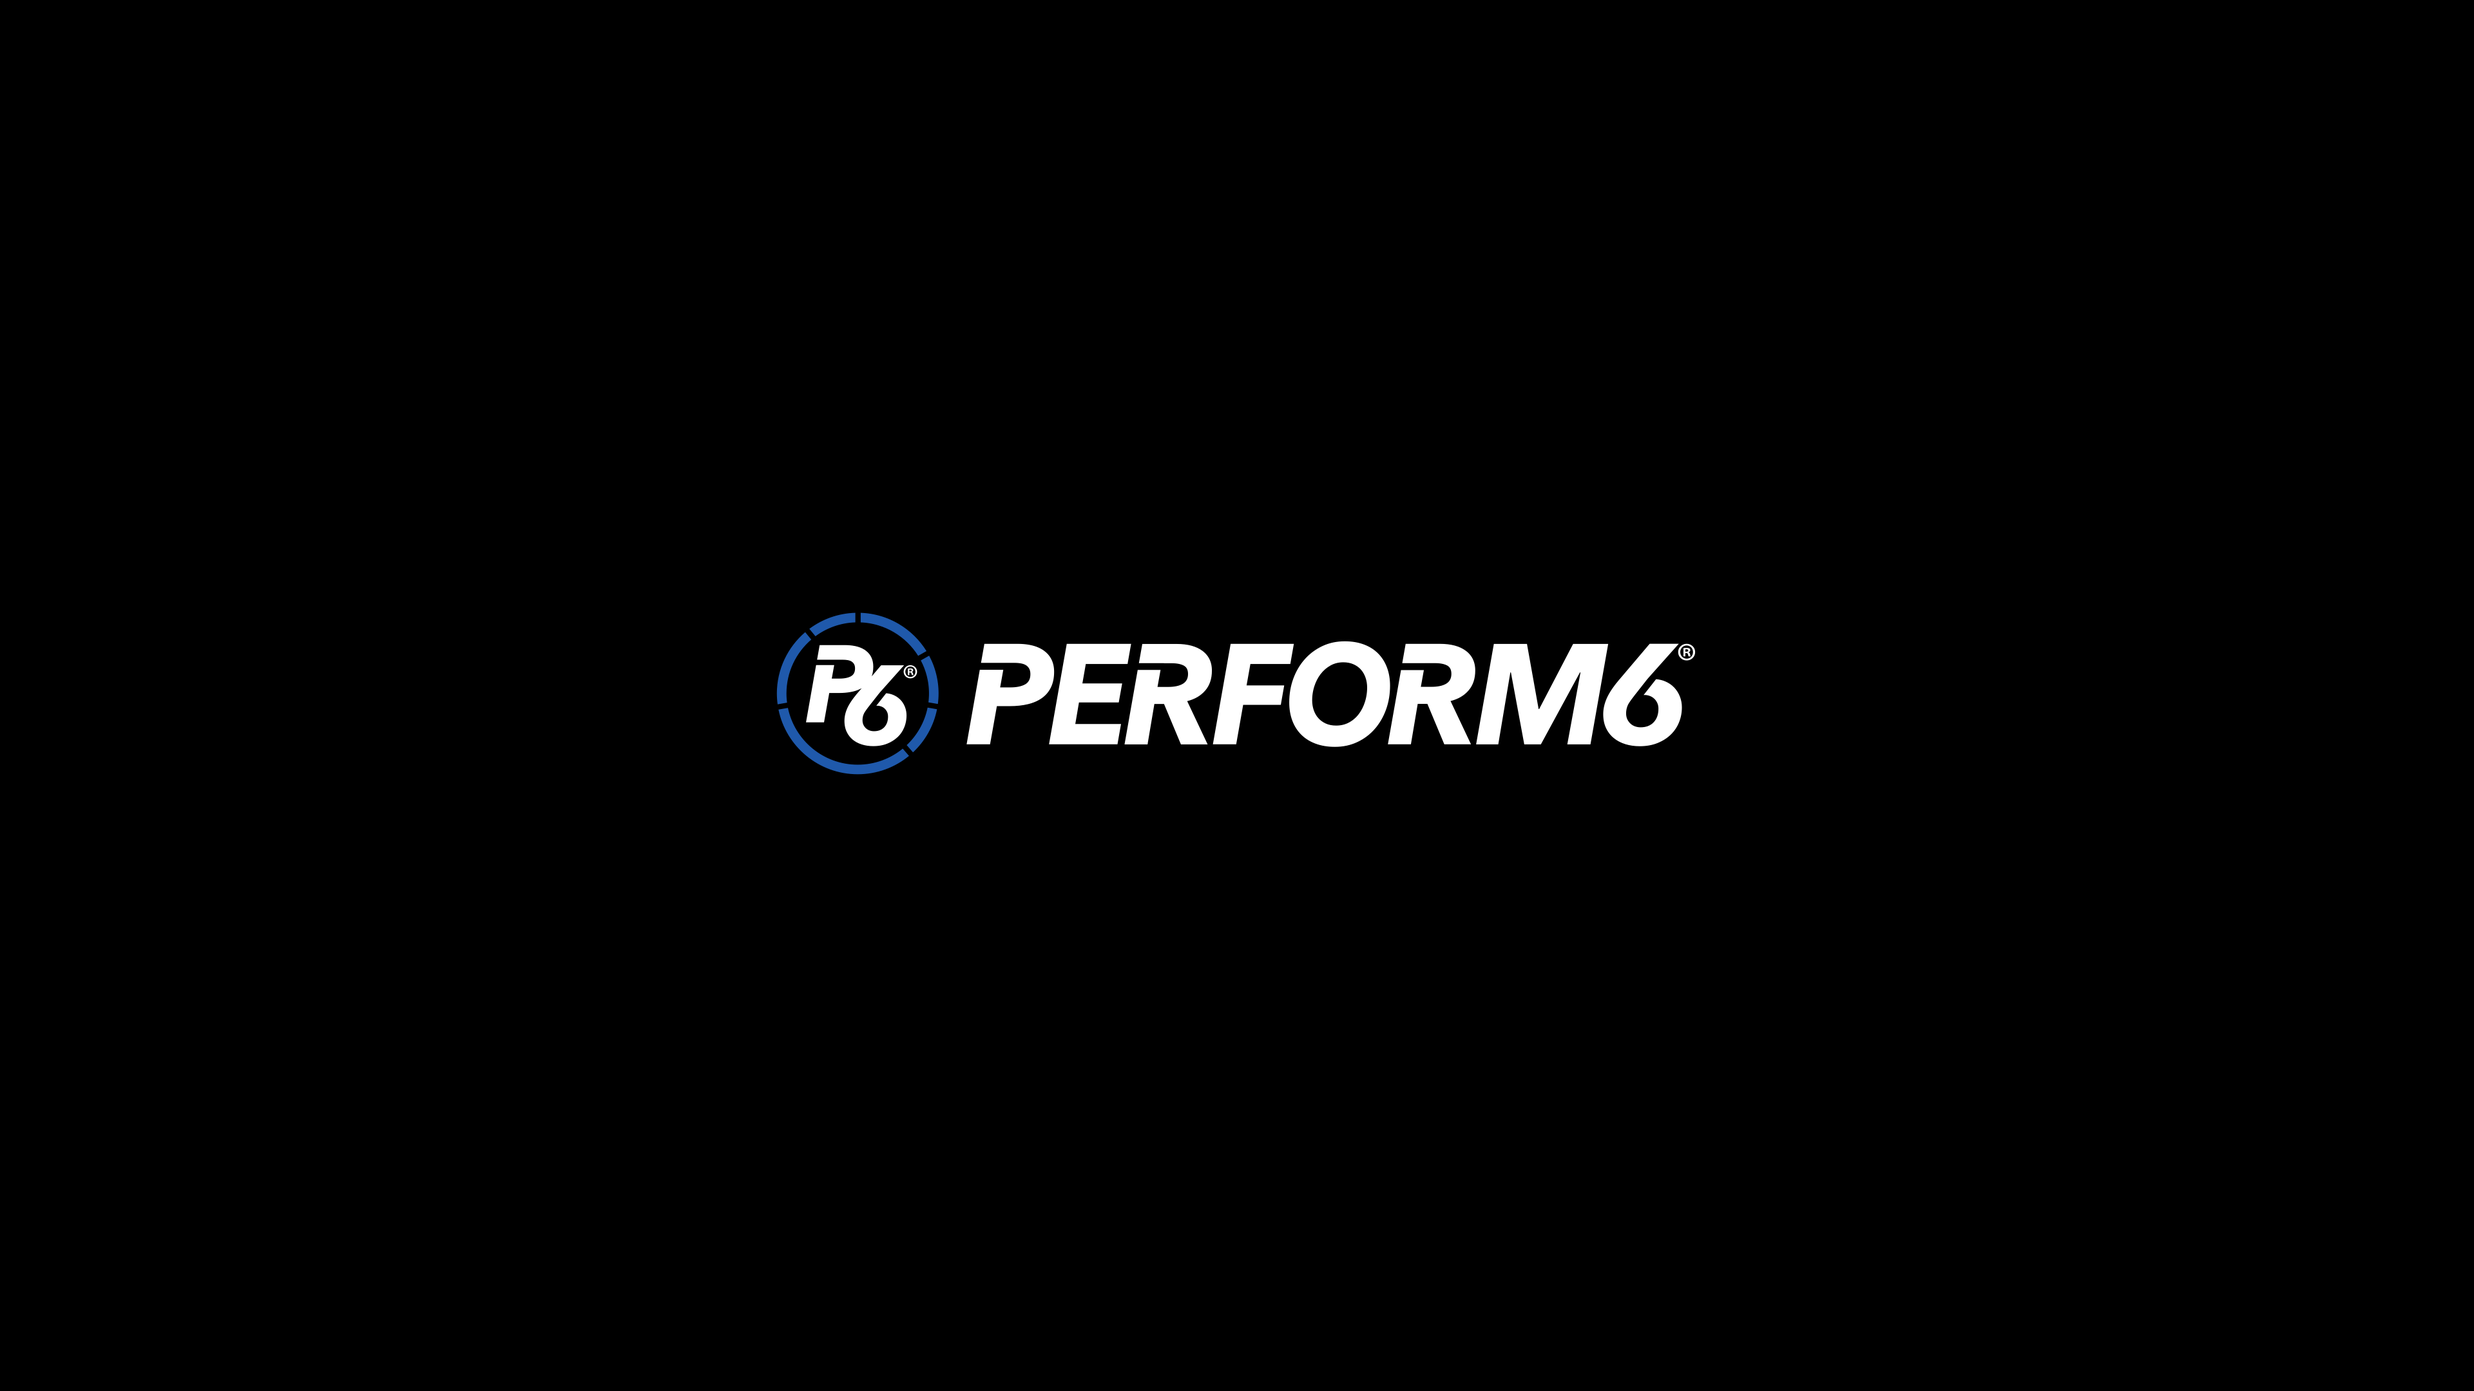
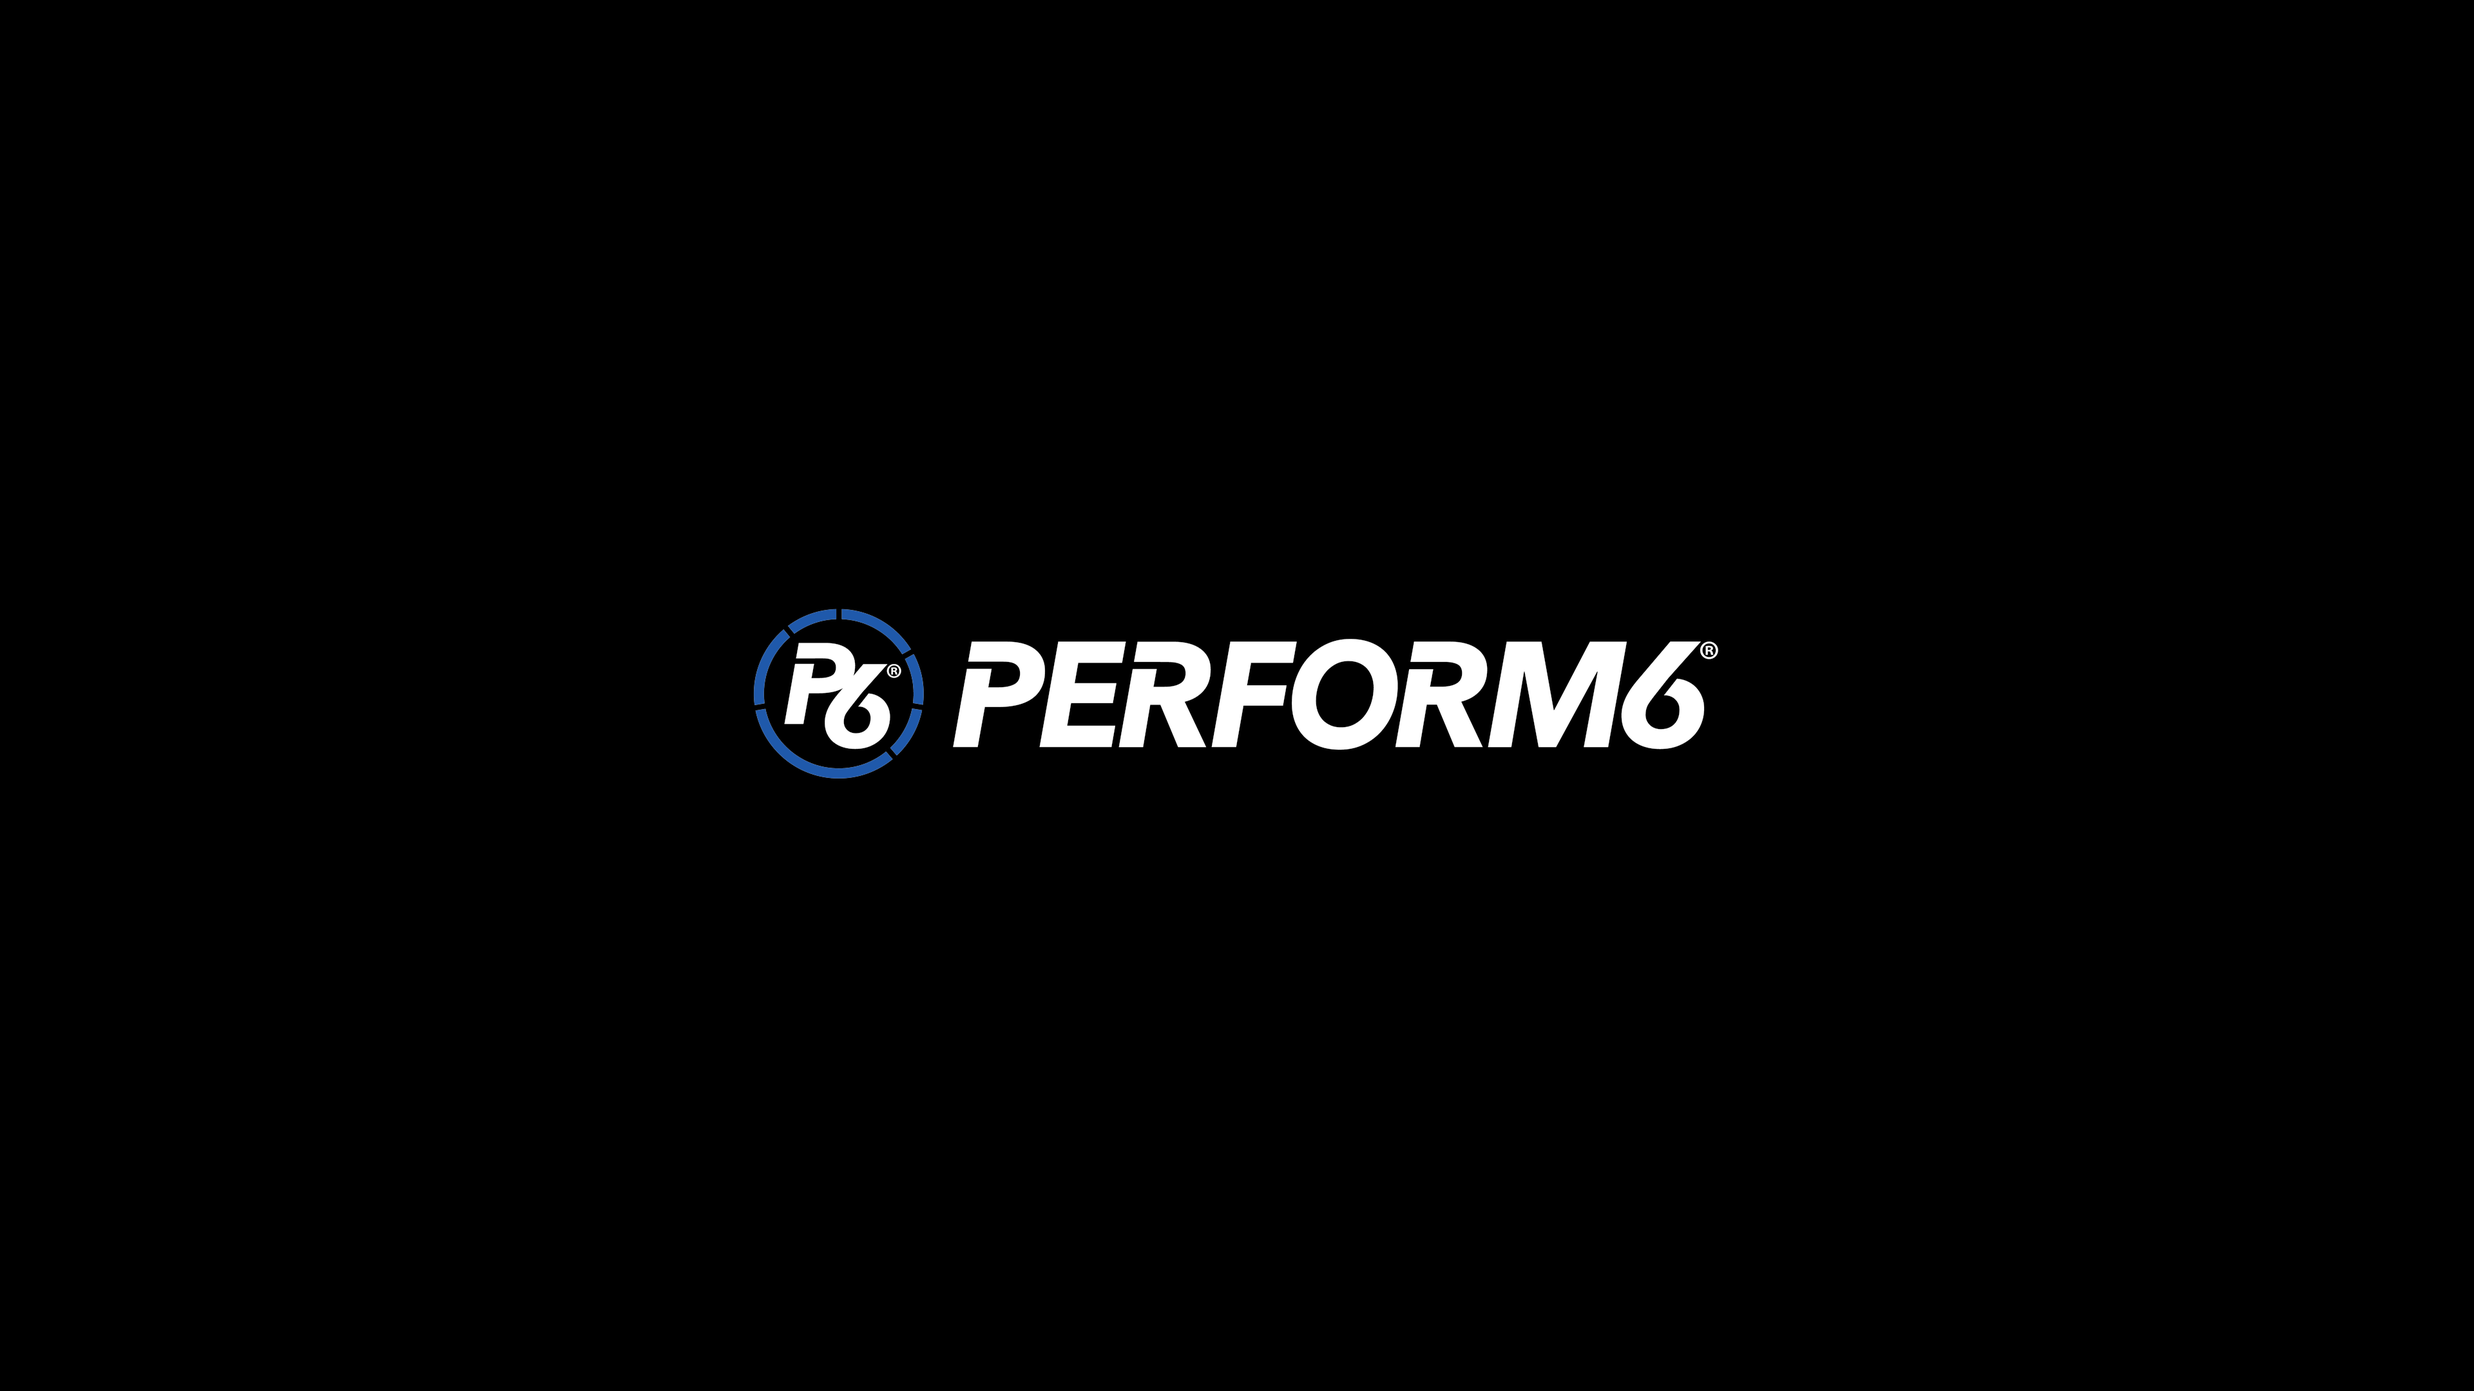
Final Feedback Changes

Changed region(s): [[0.2812, 0.4343, 0.4688, 0.5583], [0.5312, 0.4653, 0.6875, 0.5583]]

diff --git a/src/display-ui/DisplayVideoPlayer.tsx b/src/display-ui/DisplayVideoPlayer.tsx
@@ -1,7 +1,8 @@
-import { useEffect, useRef } from 'react';
+import { useEffect, useRef, useState } from 'react';
 import { useRuntimeStore } from '../stores/runtimeStore';
 import { useVideoPlaybackTelemetry } from '../hooks/useVideoPlaybackTelemetry';
 import { safeHtmlVideoSrc } from '../services/playbackSrc';
+import { htmlPlaybackEncryption } from '../services/mediaEncryption';
 
 interface DisplayVideoPlayerProps {
   src: string | null;
@@ -24,6 +25,7 @@ export function DisplayVideoPlayer({
   mediaTitle,
 }: DisplayVideoPlayerProps) {
   const videoRef = useRef<HTMLVideoElement>(null);
+  const [, refreshEncryption] = useState(0);
   const paused = useRuntimeStore((s) => s.displayPaused);
   const muted = useRuntimeStore((s) => s.displayMuted);
   const volume = useRuntimeStore((s) => s.displayVolume);
@@ -38,6 +40,22 @@ export function DisplayVideoPlayer({
   const resolvedMediaVersionId =
     mediaVersionId ?? storeMeta?.mediaVersionId ?? null;
   const resolvedTitle = mediaTitle ?? storeMeta?.title ?? label ?? null;
+  const encryption = htmlPlaybackEncryption(resolvedMediaVersionId);
+
+  useEffect(() => {
+    const refreshForMedia = (event: Event) => {
+      const detail = (event as CustomEvent<{ mediaVersionId?: string }>).detail;
+      if (detail?.mediaVersionId === resolvedMediaVersionId) {
+        refreshEncryption((value) => value + 1);
+      }
+    };
+    window.addEventListener('perform6-encryption-key-staged', refreshForMedia);
+    window.addEventListener('perform6-encrypted-media-ready', refreshForMedia);
+    return () => {
+      window.removeEventListener('perform6-encryption-key-staged', refreshForMedia);
+      window.removeEventListener('perform6-encrypted-media-ready', refreshForMedia);
+    };
+  }, [resolvedMediaVersionId]);
 
   useVideoPlaybackTelemetry(
     videoRef,
@@ -53,7 +71,38 @@ export function DisplayVideoPlayer({
 
   useEffect(() => {
     const video = videoRef.current;
-    if (!video) return;
+    if (!video || !playSrc) return;
+
+    // BrightSign reads these attributes only before src is assigned.
+    // The key stays in process memory and is cleared when the source changes.
+    video.removeAttribute('src');
+    if (encryption) {
+      video.setAttribute('EncryptionAlgorithm', encryption.algorithm);
+      video.setAttribute('EncryptionKey', encryption.keyAndIvHex);
+    } else {
+      video.removeAttribute('EncryptionAlgorithm');
+      video.removeAttribute('EncryptionKey');
+    }
+    video.src = playSrc;
+    const playback = useRuntimeStore.getState();
+    video.muted = playback.displayMuted;
+    video.volume = playback.displayVolume;
+    video.load();
+    if (playback.displayPaused) video.pause();
+    else void video.play().catch(() => {});
+
+    return () => {
+      video.pause();
+      video.removeAttribute('src');
+      video.removeAttribute('EncryptionAlgorithm');
+      video.removeAttribute('EncryptionKey');
+      video.load();
+    };
+  }, [encryption?.algorithm, encryption?.keyAndIvHex, playSrc]);
+
+  useEffect(() => {
+    const video = videoRef.current;
+    if (!video || !playSrc) return;
 
     if (paused) video.pause();
     else void video.play().catch(() => {});
@@ -92,16 +141,10 @@ export function DisplayVideoPlayer({
 
   return (
     <div className={`p6-display-player relative h-full min-h-[12rem] overflow-hidden bg-black ${className}`}>
-      {label && (
-        <div className="absolute left-2 top-2 z-10 rounded bg-black/60 px-2 py-1 text-xs font-semibold uppercase tracking-wide text-white">
-          {label}
-        </div>
-      )}
       {playSrc ? (
         <video
           ref={videoRef}
           key={playSrc}
-          src={playSrc}
           className="h-full w-full object-cover"
           autoPlay
           muted={muted}

diff --git a/src/pages/display/HD226Display.tsx b/src/pages/display/HD226Display.tsx
@@ -2,7 +2,8 @@ import { DisplayVideoPlayer } from '../../display-ui';
 import { findScreenForClusterMember, getCurrentVideo } from '../../services/playback';
 import { useOfflineVideoSrc } from '../../hooks/useOfflineVideoSrc';
 import { runtimeConfig, CLUSTER_MEMBERS } from '../../config/runtime';
-import { useRuntime, useSync } from '../../hooks/useRuntime';
+import { useRuntime } from '../../hooks/useRuntime';
+import perform6Logo from '../../assets/Perform6-approved-logo.svg';
 
 /**
  * Production HD226 surface — fullscreen playback for the baked
@@ -10,7 +11,6 @@ import { useRuntime, useSync } from '../../hooks/useRuntime';
  */
 export default function HD226Display() {
   const { store } = useRuntime();
-  const { syncState } = useSync();
   const manifest = store.playbackState.manifest;
   const member = runtimeConfig.clusterMember;
 
@@ -20,7 +20,6 @@ export default function HD226Display() {
   const video = getCurrentVideo(screen);
   const offlineSrc = useOfflineVideoSrc(video?.id, video?.url);
   const videoSrc = offlineSrc;
-  const label = screen?.label ?? member;
   const screenKey =
     screen?.displayTarget ??
     `SCREEN_${CLUSTER_MEMBERS.indexOf(member) + 1}`;
@@ -31,7 +30,6 @@ export default function HD226Display() {
         <div className="min-h-0 flex-1">
           <DisplayVideoPlayer
             src={videoSrc}
-            label={label}
             loop
             screenKey={screenKey}
             mediaVersionId={video?.id ?? null}
@@ -39,13 +37,13 @@ export default function HD226Display() {
           />
         </div>
       ) : (
-        <section className="flex h-full flex-col items-center justify-center gap-3 p-8 text-center">
-          <p className="text-sm font-semibold text-slate-200">{label}</p>
-          <p className="max-w-md text-xs text-slate-500">
-            {manifest
-              ? `No video for ${member} yet. Phase: ${syncState.runtimePhase}`
-              : `Waiting for sync… Phase: ${syncState.runtimePhase}`}
-          </p>
+        <section className="flex h-full w-full items-center justify-center bg-black">
+          <img
+            src={perform6Logo}
+            alt="Perform6"
+            className="h-auto w-[min(44vw,1680px)] object-contain"
+            draggable={false}
+          />
         </section>
       )}
     </main>

diff --git a/src/platform/xtOutputBridge.ts b/src/platform/xtOutputBridge.ts
@@ -40,6 +40,8 @@ let pendingSdFallback = false;
 let nativeTelemetrySignature = '';
 let nativeTelemetryStartedAt = 0;
 let nativeTelemetryScreenKey = '';
+/** Wall-clock position captured when the LED pauses, so reports do not keep advancing. */
+let nativeTelemetryPausedMs: number | null = null;
 
 function asString(value: unknown): string {
   return typeof value === 'string' ? value : '';
@@ -157,11 +159,23 @@ function reportNativeHdmiTelemetry(status: ReturnType<typeof readXtPlaybackStatu
   if (signature !== nativeTelemetrySignature) {
     nativeTelemetrySignature = signature;
     nativeTelemetryStartedAt = Date.now();
+    nativeTelemetryPausedMs = null;
   }
 
   const started = isLedStatusStarted(status);
   const ended = status.ended === '1' || status.state === 'ended';
   const failed = status.state === 'error' || status.ok === '0';
+  const paused = Boolean(state.displayPaused);
+  const wallMs =
+    nativeTelemetryStartedAt > 0 ? Date.now() - nativeTelemetryStartedAt : 0;
+  if (paused) {
+    if (nativeTelemetryPausedMs == null) nativeTelemetryPausedMs = wallMs;
+  } else if (nativeTelemetryPausedMs != null) {
+    // Resume continues from the frozen playhead, not the pause wall clock.
+    nativeTelemetryStartedAt = Date.now() - nativeTelemetryPausedMs;
+    nativeTelemetryPausedMs = null;
+  }
+  const positionMs = paused ? (nativeTelemetryPausedMs ?? wallMs) : wallMs;
   // XT2145 has two physical outputs. Program slots (Start Here, Phase 1,
   // Phase 2, Full Program) all play through the same LED output and must not
   // be reported as additional screens.
@@ -174,9 +188,9 @@ function reportNativeHdmiTelemetry(status: ReturnType<typeof readXtPlaybackStatu
     screenKey,
     mediaVersionId: meta?.mediaVersionId ?? null,
     title: meta?.title ?? null,
-    positionMs: nativeTelemetryStartedAt > 0 ? Date.now() - nativeTelemetryStartedAt : 0,
+    positionMs,
     durationMs: null,
-    isPlaying: started && !ended && !state.displayPaused,
+    isPlaying: started && !ended && !paused,
     output: 'HDMI-2 native (configured 3840x2160x60p)',
     source: 'NATIVE_HDMI',
     requestId: `xt-${nonce}`,

diff --git a/src/pages/Pairing.tsx b/src/pages/Pairing.tsx
@@ -7,7 +7,7 @@ import { runtimeConfig } from '../config/runtime';
 import { getPostRegistrationRoute } from '../services/runtime';
 import { PrimaryOutputOnly } from '../layout/PrimaryOutputOnly';
 import {
-  clusterMemberShortLabel,
+  hdPairingAssignmentLabel,
   resolveNextHdClusterMember,
 } from '../simulator/hdClusterPairing';
 
@@ -214,7 +214,7 @@ export default function Pairing() {
         <p className="p6-body text-p6-text-muted">{statusLabel(registrationStatus)}</p>
         {isHdSimulator && deviceInfo?.clusterMember ? (
           <p className="mt-2 text-sm text-p6-cyan">
-            Pairing as {clusterMemberShortLabel(deviceInfo.clusterMember)} ({deviceInfo.clusterMember})
+            Pairing as {hdPairingAssignmentLabel(deviceInfo.clusterMember)}
           </p>
         ) : null}
       </div>
@@ -245,8 +245,8 @@ export default function Pairing() {
           </div>
           {deviceInfo.clusterMember ? (
             <div className="flex justify-between gap-4">
-              <dt className="text-slate-500">Cluster Member</dt>
-              <dd>{deviceInfo.clusterMember}</dd>
+              <dt className="text-slate-500">Assignment</dt>
+              <dd>{hdPairingAssignmentLabel(deviceInfo.clusterMember)}</dd>
             </div>
           ) : null}
           <div className="flex justify-between gap-4">
@@ -289,7 +289,7 @@ export default function Pairing() {
               >
                 <div>
                   <p className="font-medium text-slate-200">
-                    {clusterMemberShortLabel(entry.clusterMember)}
+                    {hdPairingAssignmentLabel(entry.clusterMember)}
                   </p>
                   <p className="font-mono text-[10px] text-slate-500">{entry.serialNumber}</p>
                 </div>
@@ -348,7 +348,7 @@ export default function Pairing() {
           >
             {pairingNext
               ? 'Pairing next…'
-              : `Pair next HD device (${clusterMemberShortLabel(nextHdMember!)})`}
+              : `Pair next HD device (${hdPairingAssignmentLabel(nextHdMember!)})`}
           </button>
         )}
 

diff --git a/src/components/pairing/PairingCodeDisplay.tsx b/src/components/pairing/PairingCodeDisplay.tsx
@@ -1,5 +1,5 @@
 import type { ClusterMember } from '../../shared/types';
-import { clusterMemberShortLabel } from '../../simulator/hdClusterPairing';
+import { hdPairingAssignmentLabel } from '../../simulator/hdClusterPairing';
 
 interface PairingCodeDisplayProps {
   code: string;
@@ -43,7 +43,7 @@ export function PairingCodeDisplay({
         <p className="p6-caption text-p6-text-muted uppercase tracking-widest">Pairing Code</p>
         {clusterMember ? (
           <p className="text-sm font-semibold text-p6-cyan">
-            {clusterMemberShortLabel(clusterMember)} · {clusterMember}
+            {hdPairingAssignmentLabel(clusterMember)}
           </p>
         ) : null}
         <div className="p6-pairing-code__digits font-mono text-5xl font-bold tracking-[0.35em] text-p6-cyan">
@@ -66,7 +66,7 @@ export function PairingCodeDisplay({
       <h1 className="text-3xl font-semibold text-white sm:text-5xl">Pairing Code</h1>
       {clusterMember ? (
         <p className="text-lg font-semibold text-cyan-300">
-          {clusterMemberShortLabel(clusterMember)} · {clusterMember}
+          {hdPairingAssignmentLabel(clusterMember)}
         </p>
       ) : null}
       <div

diff --git a/src/pages/Home.tsx b/src/pages/Home.tsx
@@ -265,6 +265,17 @@ export default function Home() {
     return () => window.clearTimeout(timer);
   }, [activeSession?.startedAt, activeSession?.source]);
 
+  // Full Program plays once, but a pause with no interaction returns Home after 45 minutes.
+  useEffect(() => {
+    if (!activeSession || activeSession.source !== 'full-program' || !displayPaused) return;
+
+    const timer = window.setTimeout(() => {
+      returnToMainMenuRef.current();
+    }, TOUCH_LOOP_SESSION_MS);
+
+    return () => window.clearTimeout(timer);
+  }, [activeSession?.startedAt, activeSession?.source, displayPaused]);
+
   // Touch-only: Full Program plays once — when HDMI video ends, return to menu.
   useEffect(() => {
     if (!activeSession || activeSession.source !== 'full-program') {

diff --git a/src/simulator/hdClusterPairing.ts b/src/simulator/hdClusterPairing.ts
@@ -91,6 +91,9 @@ export function hdClusterMemberRoute(member: ClusterMember): string {
   return `/simulator/hd226/${member.toLowerCase()}`;
 }
 
-export function clusterMemberShortLabel(member: ClusterMember): string {
-  return member.replace('DEVICE_', 'Player ');
+/** Portal assignment shown on the HD pairing screen: Device 1 • Screen 1. */
+export function hdPairingAssignmentLabel(member: ClusterMember): string {
+  const index = CLUSTER_MEMBERS.indexOf(member);
+  const number = index >= 0 ? index + 1 : 1;
+  return `Device ${number} • Screen ${number}`;
 }
